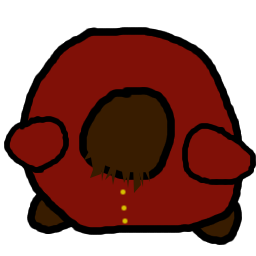
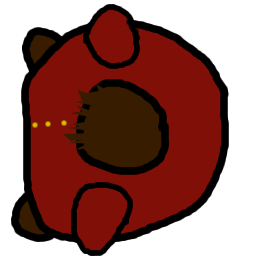
block direction support; change player direction when moving; don't change editor block selector selection on mouse hover

diff --git a/puzzle.py b/puzzle.py
@@ -24,9 +24,10 @@ import conf
 # TODO:
 # - document classes
 # - portal blocks
-# - allow set_selected to determine border colour
-# - allow defined direction for a block
-#   - when player tries to move (level.Level.move), make player blocks face that direction
+# - when we have bouncing blocks wall-to-wall trying to bounce, get infinite loop
+#   - maybe take snapshot of all blocks each time we try to get a working configuration and if doesn't change, break
+#     - do we even get to next time through loop, or do they just keep telling each other to calculate stuff?
+#     - just need dest, or forces too?
 
 def autocrop (s):
     """Return the smallest rect containing all non-transparent pixels.
@@ -97,12 +98,20 @@ def opposite_dir (direction):
 class BoringBlock (object):
     def __init__ (self, type_ID, puzzle, pos):
         self.type = type_ID
+        self.tiler = puzzle.tiler
         self.pos = list(pos)
+        from random import randrange
+        self.dirn = randrange(4)
 
     def __str__ (self):
         return '<block: {0} at {1}>'.format(self.type, self.pos)
 
     __repr__ = __str__
+
+    def set_direction (self, dirn):
+        if dirn != self.dirn:
+            self.dirn = dirn
+            self.tiler.change(self.pos)
 
 
 class Block (BoringBlock):
@@ -475,11 +484,11 @@ colour: colour of the selection border; defaults to the current value of
         conf.SEL_COLOUR for the current theme.
 
 """
-        if self.selected is not None:
-            self.deselect()
         pos = tuple(pos[:2])
         select = (pos, colour)
         if self.selected != select:
+            if self.selected is not None:
+                self.deselect()
             x, y = pos
             self.grid[x][y][2] = True
             self.selected = select
@@ -723,16 +732,34 @@ If the destination tile is out-of-bounds, select the nearest in-bounds tile.
             assert t not in self._draw_cbs
             self._draw_cbs[t] = (f, call_once)
 
-    def _draw_from_img (self, surface, rect, prefix, ID):
+    def _draw_from_img (self, surface, rect, prefix, ID, dirn = None):
         ID = prefix + str(ID)
-        fn = conf.IMG_DIR + conf.THEME + path_sep + ID + '.png'
-        if exists(fn):
+        fn_base = conf.IMG_DIR + conf.THEME + path_sep + ID
+        # if have a direction, look for specially rotated image before fallback
+        suffixes = (None if dirn is None else ('-' + str(dirn)), '')
+        got = False
+        for fallback, suffix in enumerate(suffixes):
+            if suffix is not None:
+                fn = fn_base + suffix + '.png'
+                if exists(fn):
+                    got = True
+                    if not fallback:
+                        ID += suffix
+                        # this is already rotated: no need to rotate in code
+                        dirn = None
+                    break
+        if got:
             # image might be transparent
             if prefix == 's':
                 surface.fill(conf.BG[conf.THEME], rect)
-            surface.blit(self.game.img(ID, fn, rect), rect)
+            img = self.game.img(ID, fn, rect)
+            # rotate if necessary
+            if dirn:
+                img = pygame.transform.rotate(img, -90 * dirn)
+            surface.blit(img, rect)
             return True
-        return False
+        else:
+            return False
 
     def draw_tile (self, surface, rect, i, j):
         # draw a single tile; called by Tiler
@@ -761,7 +788,7 @@ If the destination tile is out-of-bounds, select the nearest in-bounds tile.
         if b is not None:
             if b.type < conf.MIN_CHAR_ID:
                 # blit image if exists, else use colour
-                if not self._draw_from_img(surface, rect, 'b', b.type):
+                if not self._draw_from_img(surface, rect, 'b', b.type, b.dirn):
                     rect = pygame.Rect(rect)
                     p = rect.center
                     r = rect.w / 2

diff --git a/editor.py b/editor.py
@@ -518,15 +518,16 @@ state: the current position in the history.
             # get tile under mouse
             tile = self.editor.point_tile(pos)
             if tile is not None:
+                # editor: select tile under mouse
                 if not self.editing:
                     self.switch_puzzle()
                 self.editor.select(tile)
             else:
+                # selector: just make sure it's the current puzzle
                 tile = self.selector.point_tile(pos)
                 if tile is not None:
                     if self.editing:
                         self.switch_puzzle()
-                    self.selector.select(tile)
             self.mouse_moved = False
 
     def draw (self, screen):

diff --git a/level.py b/level.py
@@ -244,6 +244,7 @@ Takes ID and definition arguments as in the constructor.
         for d in set(directions):
             for player in self.players:
                 player.add_force(d, conf.FORCE_MOVE)
+                player.set_direction(d)
 
     def _move (self, key, event, mods, direction):
         """Key callback to move player."""
